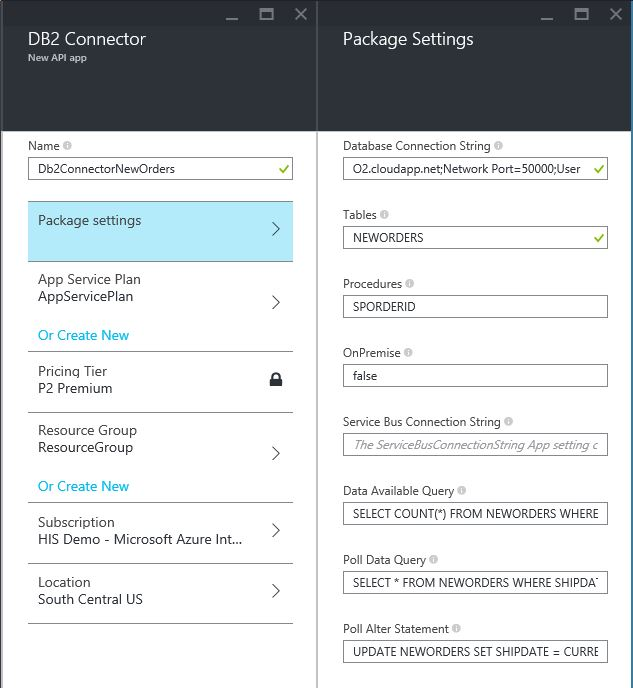
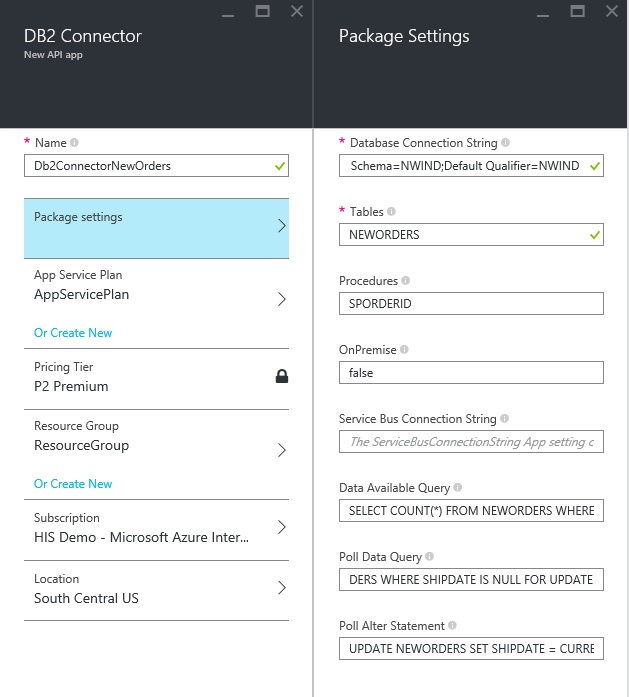
Updated content based on testing with latest Logic app designer

diff --git a/articles/app-service-logic-connector-db2.md b/articles/app-service-logic-connector-db2.md
@@ -2,8 +2,8 @@
    pageTitle="Using the Microsoft API App Connector for DB2 in a Microsoft Azure App Service Logic App"
    description="How to use the DB2 Connector with Logic App triggers and actions"   services="app-service\logic"
    documentationCenter=".net,nodejs,java"
-   authors="plarsen"
-   manager="bills"
+   authors="gplarsen"
+   manager=""
    editor=""/>
 
 <tags
@@ -13,7 +13,7 @@
    ms.tgt_pltfrm="na"
    ms.workload="integration"
    ms.date="07/20/2015"
-   ms.author="plarsen"/>
+   ms.author="gplarsen"/>
 
 
 # Microsoft DB2 Connector #
@@ -76,8 +76,8 @@ You can create a new instance of a DB2 Connector API app from within the Azure M
 4. Type a list of **Tables**, for example, **NEWORDERS**.
 5. Type a list of **Procedures**, for example, **SPORDERID**.
 6. Optionally, click **true** to define an **OnPremise** connection for use with the Azure Service Proxy Relay, and then type a **Service Bus Connection String**. 
-7. Type a **Data Available Query** for use with a Logic App trigger, for example, type **SELECT COUNT(*) FROM NEWORDERS WHERE SHIPDATE IS NULL**.
-8. Type a **Poll Data Query** for use with a Logic App trigger, for example, type **SELECT * FROM NEWORDERS WHERE SHIPDATE IS NULL FOR UPDATE**.
+7. Type a **Data Available Query** for use with a Logic App trigger, for example, type **SELECT COUNT(\*) FROM NEWORDERS WHERE SHIPDATE IS NULL**.
+8. Type a **Poll Data Query** for use with a Logic App trigger, for example, type **SELECT \* FROM NEWORDERS WHERE SHIPDATE IS NULL FOR UPDATE**.
 9. Type a **Poll Alter Statement** for use with a Logic App trigger, for example, type **UPDATE NEWORDERS SET SHIPDATE = CURRENT DATE WHERE CURRENT OF &lt;CURSOR&gt;**.
 10. Click **OK**. Select or define values for the other settings (e.g. service plan, resource group). The settings should look as follows. Click **Create**. <br/>
 ![][1]
@@ -126,27 +126,19 @@ You can create a new Logic app from within the Azure Marketplace, and then use t
 2. In the **Create logic app** blade, type a **Name**, for example **NewOrdersDb2**.
 3. Select or define values for the other settings (e.g. service plan, resource group).
 4. The settings should look as follows. Click **Create**. <p/><br/>![][2]
-5. In the **Triggers and actions** blade, in the **API Apps** panel, within the resource group, click **Recurrence**.
-6. On the Logic app design surface, click the **Recurrence** item, set a **Frequency** and **Interval**, for example **Days** and **1**, and then click the **checkmark** to save the recurrence item settings.
-7. In the **Triggers and actions** blade, in the **API Apps** panel, within the resource group, click **DB2 Connector**.
-8. On the Logic app design surface, click the **DB2 Connector** action item, click the ellipses (**...**) to expand the operations list, and then click **Insert into NEWORDERS**.
-9. On the **DB2 Connector** action item, click the ellipses (**...**), and then scroll to type values for all INSERT command column parameters. For example, type these values. 
-    
-    ITEMS: 2
-    AMOUNT: 46.00
-    CUSTID: 10081
-    SHIPNAME: Trails Head Gourmet Provisioners
-    SHIPADDR: 722 DaVinci Blvd.
-    SHIPCITY: Kirkland
-    SHIPREG: WA
-    SHIPZIP: 98034
-	SHIPCTRY: USA
-
-10. Click the **checkmark** to save the action settings, and then click **Save**. The settings should look as follows. <p/><br/>![][3]
-11. Click to close the **Triggers and actions** blade, and then click to close the **Settings** blade.
-12. In the **All runs** list under **Operations**, click the first-listed item (most recent run).
-13. In the **Logic app run** blade, click the **ACTION** item.
-14. In the **Logic app action** blade, click the **OUTPUTS LINK**. The outputs should look as follows. <p/><br/>![][4]
+5. In the **Triggers and actions** blade, in the **Logic App Templates** list, click **Create from Scratch**.
+6. In the **Triggers and actions** blade, in the **API Apps** panel, within the resource group, click **Recurrence**.
+7. On the Logic app design surface, click the **Recurrence** item, set a **Frequency** and **Interval**, for example **Days** and **1**, and then click the **checkmark** to save the recurrence item settings.
+8. In the **Triggers and actions** blade, in the **API Apps** panel, within the resource group, click **DB2 Connector**.
+9. On the Logic app design surface, click the **DB2 Connector** action item, click the ellipses (**...**) to expand the operations list, and then click **Insert into NEWORDERS**.
+10. On the **DB2 Connector** action item, click the ellipses (**...**), and then scroll to type values for all INSERT command column parameters. For example, type these values (CUSTID: 10042; SHIPNAME: Lazy K Kountry Store; SHIPADDR: 12 Orchestra Terrace; SHIPCITY: Walla Walla; SHIPREG: WA; SHIPZIP: 99362).  
+11. Click the **checkmark** to save the action settings, and then click **Save**. The settings should look as follows. <p/><br/>![][3]
+12. Click to close the **Triggers and actions** blade, and then click to close the **Settings** blade.
+13. In the **All runs** list under **Operations**, click the first-listed item (most recent run).
+14. In the **Logic app run** blade, click the **ACTION** item.
+15. In the **Logic app action** blade, click the **OUTPUTS LINK**. The outputs should look as follows. <p/><br/>![][4]
+  
+**Note:** DB2 Connector defines EntitySet members with attributes, including whether the member corresponds to a DB2 column with a default or generated columns (e.g. identity). Logic app displays a red asterisk next to the EntitySet member ID name, to denote DB2 columns that require values. You should not enter a value for the ORDID member, which corresponds to DB2 identity column. You may enter values for other optional members (ITEMS, ORDDATE, REQDATE, SHIPID, FREIGHT, SHIPCTRY), which correspond to DB2 columns with default values.
 
 
 ## Create Logic App using DB2 Connector as Action to Write Bulk Data ##
@@ -156,11 +148,12 @@ You can create a new Logic app from within the Azure Marketplace, and then use t
 2. In the **Create logic app** blade, type a **Name**, for example **NewOrdersBulkDb2**.
 3. Select or define values for the other settings (e.g. service plan, resource group).
 4. The settings should look as follows. Click **Create**. <p/><br/>![][5]
-5. In the **Triggers and actions** blade, in the **API Apps** panel, within the resource group, click **Recurrence**.
-6. On the Logic app design surface, click the **Recurrence** item, set a **Frequency** and **Interval**, for example **Days** and **1**, and then click the **checkmark** to save the recurrence item settings.
-7. In the **Triggers and actions** blade, in the **API Apps** panel, within the resource group, click **DB2 Connector**.
-8. On the Logic app design surface, click the **DB2 Connector** action item, click the ellipses (**...**) to expand the operations list, and then click **Bulk Insert into NEWORDERS**.
-9. On the **DB2 Connector** action item, type the **rows** value as an array. For example, type the following array value.
+5. In the **Triggers and actions** blade, in the **Logic App Templates** list, click **Create from Scratch**.
+6. In the **Triggers and actions** blade, in the **API Apps** panel, within the resource group, click **Recurrence**.
+7. On the Logic app design surface, click the **Recurrence** item, set a **Frequency** and **Interval**, for example **Days** and **1**, and then click the **checkmark** to save the recurrence item settings.
+8. In the **Triggers and actions** blade, in the **API Apps** panel, within the resource group, click **DB2 Connector**.
+9. On the Logic app design surface, click the **DB2 Connector** action item, click the ellipses (**...**) to expand the operations list, and then click **Bulk Insert into NEWORDERS**.
+10. On the **DB2 Connector** action item, type the **rows** value as an array. For example, type the following array value.
 
     [{"ITEMS":2,"AMOUNT":46.00,"CUSTID":10081,"SHIPNAME":"Trail's Head Gourmet Provisioners","SHIPADDR":"722 DaVinci Blvd.","SHIPCITY":"Kirkland","SHIPREG":"WA","SHIPZIP":"98034"},{"ITEMS":3,"AMOUNT":46.00,"CUSTID":10088,"SHIPNAME":"White Clover Markets","SHIPADDR":"305 14th Ave. S. Suite 3B","SHIPCITY":"Seattle","SHIPREG":"WA","SHIPZIP":"98128","SHIPCTRY":"USA"}]
 
@@ -170,12 +163,12 @@ You can create a new Logic app from within the Azure Marketplace, and then use t
 
 **Note:** By specifying "today" and "tomorrow", DB2 Connector will generate "CURRENT DATE" and "CURRENT DATE + 1 DAY" functions (e.g. REQDATE). 
 
-10. Click the **checkmark** to save the action settings, and then click **Save**. The settings should look as follows. <p/><br/>![][6]
-11. Click to close the **Triggers and actions** blade, and then click to close the **Settings** blade.
-12. In the **All runs** list under **Operations**, click the first-listed item (most recent run).
-13. In the **Logic app run** blade, click the **ACTION** item.
-14. In the **Logic app action** blade, click the **INPUTS LINK**. The outputs should look as follows. <p/><br/>![][7]
-15. In the **Logic app action** blade, click the **OUTPUTS LINK**. The outputs should look as follows. <p/><br/>![][8]
+11. Click the **checkmark** to save the action settings, and then click **Save**. The settings should look as follows. <p/><br/>![][6]
+12. Click to close the **Triggers and actions** blade, and then click to close the **Settings** blade.
+13. In the **All runs** list under **Operations**, click the first-listed item (most recent run).
+14. In the **Logic app run** blade, click the **ACTION** item.
+15. In the **Logic app action** blade, click the **INPUTS LINK**. The outputs should look as follows. <p/><br/>![][7]
+16. In the **Logic app action** blade, click the **OUTPUTS LINK**. The outputs should look as follows. <p/><br/>![][8]
 
 
 ## Create Logic App using DB2 Connector as Trigger to Alter Data and Action to Read Data##
@@ -188,16 +181,17 @@ Following the trigger, you can use the DB2 Connector as action to read customer 
 3. Select or define values for the other settings (e.g. service plan, resource group).
 4. The settings should look as follows. Click **Create**. <p/><br/>![][9]
 5. In the **Settings** blade, click **Triggers and actions**.
-6. In the **Triggers and actions** blade, in the **API Apps** panel, within the resource group, click **DB2 Connector**.
-7. On the Logic app design surface, click the **DB2 Connector** trigger item, click **Poll Data**, set a **Frequency** and **Interval**, for example **Days** and **1**, and then click the **checkmark** to save the trigger item settings. 
-8. In the **Triggers and actions** blade, in the **API Apps** panel, within the resource group, click **DB2 Connector**.
-9. On the Logic app design surface, click the **DB2 Connector** action item, click the ellipses (**...**) to expand the operations list, and then click **Select from NEWORDERS**.
-10. On the **DB2 Connector** action item, type **ORDID ge 90000** for an **expression that identifies a subset of entries**.
-11. Click the **checkmark** to save the action settings, and then click **Save**. The settings should look as follows. <p/><br/>![][10]
-12. Click to close the **Triggers and actions** blade, and then click to close the **Settings** blade.
-13. In the **All runs** list under **Operations**, click the first-listed item (most recent run).
-14. In the **Logic app run** blade, click the **ACTION** item.
-15. In the **Logic app action** blade, click the **OUTPUTS LINK**. The outputs should look as follows. <p/><br/>![][11]
+6. In the **Triggers and actions** blade, in the **Logic App Templates** list, click **Create from Scratch**.
+7. In the **Triggers and actions** blade, in the **API Apps** panel, within the resource group, click **DB2 Connector**.
+8. On the Logic app design surface, click the **DB2 Connector** trigger item, click **Poll Data**, set a **Frequency** and **Interval**, for example **Days** and **1**, and then click the **checkmark** to save the trigger item settings. 
+9. In the **Triggers and actions** blade, in the **API Apps** panel, within the resource group, click **DB2 Connector**.
+10. On the Logic app design surface, click the **DB2 Connector** action item, click the ellipses (**...**) to expand the operations list, and then click **Select from NEWORDERS**.
+11. On the **DB2 Connector** action item, type **ORDID ge 90000** for an **expression that identifies a subset of entries**.
+12. Click the **checkmark** to save the action settings, and then click **Save**. The settings should look as follows. <p/><br/>![][10]
+13. Click to close the **Triggers and actions** blade, and then click to close the **Settings** blade.
+14. In the **All runs** list under **Operations**, click the first-listed item (most recent run).
+15. In the **Logic app run** blade, click the **ACTION** item.
+16. In the **Logic app action** blade, click the **OUTPUTS LINK**. The outputs should look as follows. <p/><br/>![][11]
 
 
 ## Create Logic App using DB2 Connector to Remove Data ##
@@ -207,16 +201,17 @@ You can create a new Logic app from within the Azure Marketplace, and then use t
 2. In the **Create logic app** blade, type a **Name**, for example **RemoveOrdersDb2**.
 3. Select or define values for the other settings (e.g. service plan, resource group).
 4. The settings should look as follows. Click **Create**. <p/><br/>![][12]
-5. In the **Triggers and actions** blade, in the **API Apps** panel, within the resource group, click **Recurrence**.
-6. On the Logic app design surface, click the **Recurrence** item, set a **Frequency** and **Interval**, for example **Days** and **1**, and then click the **checkmark** to save the recurrence item settings.
-7. In the **Triggers and actions** blade, in the **API Apps** panel, within the resource group, click **DB2 Connector**.
-8. On the Logic app design surface, click the **DB2 Connector** action item, click the ellipses (**...**) to expand the operations list, and then click **Conditional delete from NEWORDERS**.
-9. On the **DB2 Connector** action item, type **ORDID ge 90000** for an **expression that identifies a subset of entries**.
-10. Click the **checkmark** to save the action settings, and then click **Save**. The settings should look as follows. <p/><br/>![][13]
-11. Click to close the **Triggers and actions** blade, and then click to close the **Settings** blade.
-12. In the **All runs** list under **Operations**, click the first-listed item (most recent run).
-13. In the **Logic app run** blade, click the **ACTION** item.
-14. In the **Logic app action** blade, click the **OUTPUTS LINK**. The outputs should look as follows. <p/><br/>![][14]
+5. In the **Triggers and actions** blade, in the **Logic App Templates** list, click **Create from Scratch**.
+6. In the **Triggers and actions** blade, in the **API Apps** panel, within the resource group, click **Recurrence**.
+7. On the Logic app design surface, click the **Recurrence** item, set a **Frequency** and **Interval**, for example **Days** and **1**, and then click the **checkmark** to save the recurrence item settings.
+8. In the **Triggers and actions** blade, in the **API Apps** panel, within the resource group, click **DB2 Connector**.
+9. On the Logic app design surface, click the **DB2 Connector** action item, click the ellipses (**...**) to expand the operations list, and then click **Conditional delete from NEWORDERS**.
+10. On the **DB2 Connector** action item, type **ORDID ge 90000** for an **expression that identifies a subset of entries**.
+11. Click the **checkmark** to save the action settings, and then click **Save**. The settings should look as follows. <p/><br/>![][13]
+12. Click to close the **Triggers and actions** blade, and then click to close the **Settings** blade.
+13. In the **All runs** list under **Operations**, click the first-listed item (most recent run).
+14. In the **Logic app run** blade, click the **ACTION** item.
+15. In the **Logic app action** blade, click the **OUTPUTS LINK**. The outputs should look as follows. <p/><br/>![][14]
 
 
 ## DB2 Connector Samples ##
@@ -226,25 +221,26 @@ DB2 Connector with Logic App walk-through exercises utilize the following table 
 ### Create Table ###
 You can create the sample NEWORDERS table using the following DDL statement.
 
-    CREATE TABLE NEWORDERS (
-    		ORDID INT NOT NULL GENERATED BY DEFAULT AS IDENTITY (START WITH 10248, INCREMENT BY 1), 
-    		ITEMS SMALLINT DEFAULT 1, 
-    		AMOUNT DECIMAL (9, 2) NOT NULL, 
-    		CUSTID INT NOT NULL, 
-    		ORDDATE DATE NOT NULL DEFAULT, 
-    		REQDATE DATE NOT NULL DEFAULT, 
-    		SHIPDATE DATE, 
-    		SHIPID INT NOT NULL DEFAULT 10000, 
-    		FREIGHT DECIMAL (9,2) NOT NULL DEFAULT 0.00, 
-    		SHIPNAME CHAR (40) NOT NULL,
-    		SHIPADDR CHAR (60) NOT NULL,
-    		SHIPCITY CHAR (20) NOT NULL,
-    		SHIPREG CHAR (15) NOT NULL,
-    		SHIPZIP CHAR (10) DEFAULT,
-    		SHIPCTRY CHAR (15) NOT NULL DEFAULT 'USA',
-    		PRIMARY KEY(ORDID))
+	CREATE TABLE ORDERS (
+		ORDID INT NOT NULL GENERATED BY DEFAULT AS IDENTITY (START WITH 10000, INCREMENT BY 1) , 
+		CUSTID INT NOT NULL , 
+		EMPID INT NOT NULL DEFAULT 10000 , 
+		ORDDATE DATE NOT NULL DEFAULT CURRENT DATE , 
+		REQDATE DATE DEFAULT CURRENT DATE , 
+		SHIPDATE DATE , 
+		SHIPID INT NOT NULL DEFAULT 10000, 
+		FREIGHT DECIMAL (9,2) NOT NULL DEFAULT 0.00 , 
+		SHIPNAME CHAR (40) NOT NULL , 
+		SHIPADDR CHAR (60) NOT NULL , 
+		SHIPCITY CHAR (20) NOT NULL , 
+		SHIPREG CHAR (15) NOT NULL , 
+		SHIPZIP CHAR (10) NOT NULL , 
+		SHIPCTRY CHAR (15) NOT NULL DEFAULT 'USA' , 
+		PRIMARY KEY(ORDID)
+		)
 
-    CREATE UNIQUE INDEX XNEWORDID ON NEWORDERS (ORDID ASC)
+	CREATE UNIQUE INDEX XORDID ON ORDERS (ORDID ASC)
+
 
 ### Create Procedure ###
 You can create the sample NEWORDERS table using the following DDL statement.
